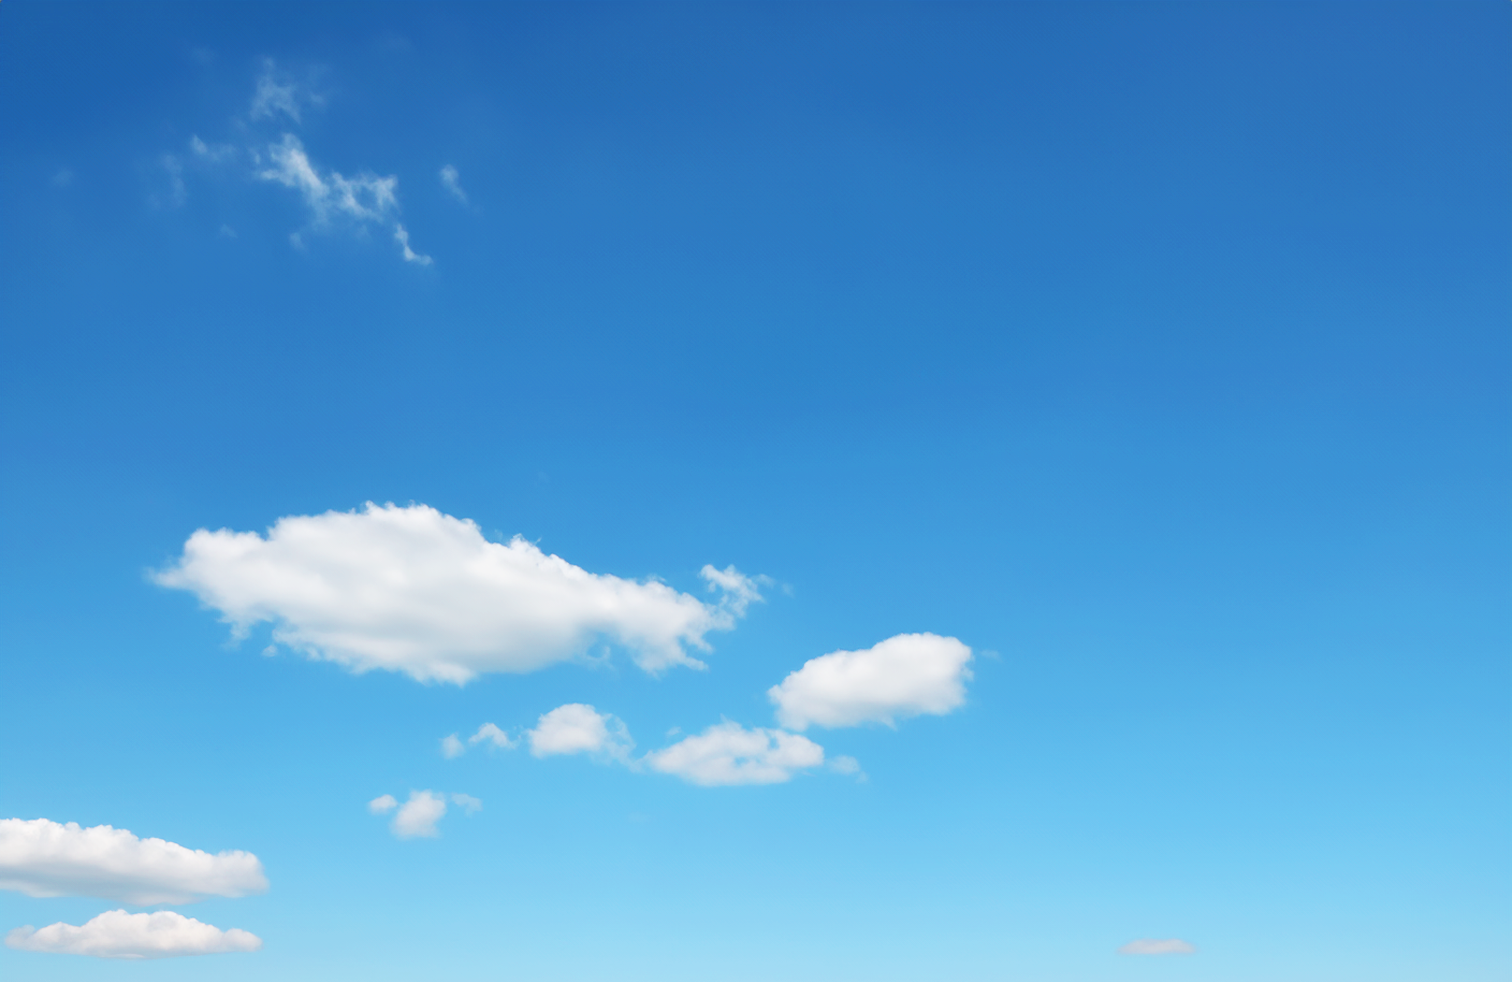
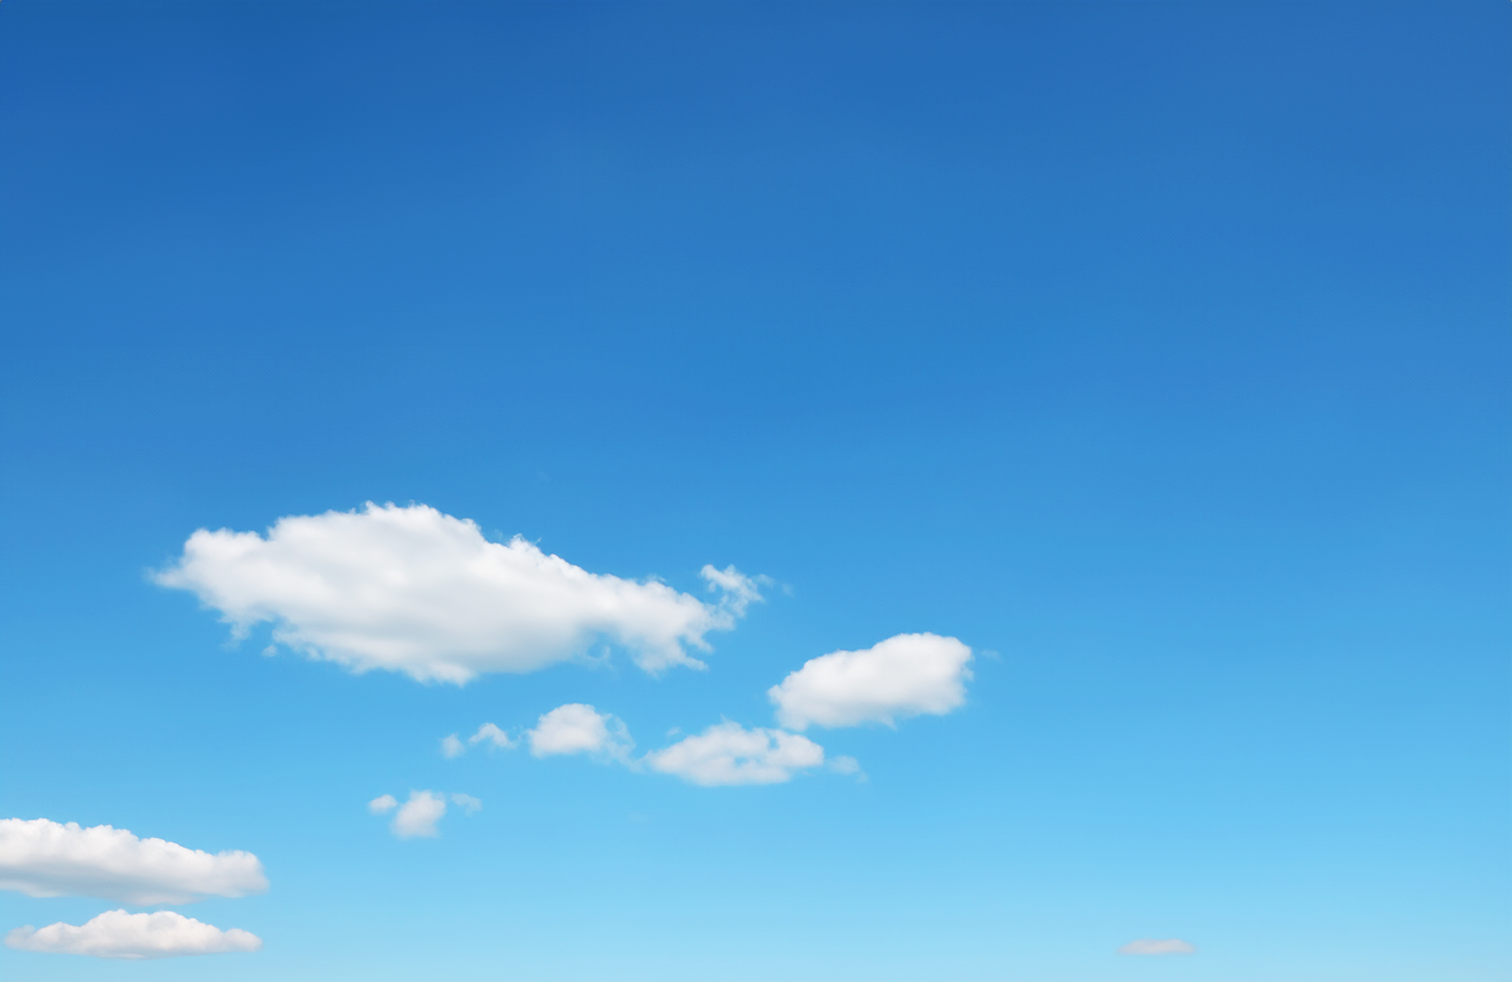
system mode BG images

Changed region(s): [[0.0933, 0.0611, 0.3108, 0.2749]]

diff --git a/src/pages/landing-page/components/landing-header/LandingHeader.js b/src/pages/landing-page/components/landing-header/LandingHeader.js
@@ -19,6 +19,7 @@ import instagram_dark from '../../../../assets/icons/instagram-icon-dark.png'
 import moon_icon from '../../assets/moon-icon.svg';
 import sun_icon from '../../assets/sun-icon.svg';
 import tiktok_dark from '../../../../assets/icons/tiktok-icon-dark.png';
+import ElementWrapper from '../../../../components/element-wrapper/ElementWrapper.js';
 
 export default function LandingHeader({ navLabel, navLink }) {
     const dispatch = useDispatch();
@@ -32,7 +33,6 @@ export default function LandingHeader({ navLabel, navLink }) {
             dispatch(setSystemMode("light"));
         }
     }
-    
     const handleNav = (path) => {
         navigate(path)
     }
@@ -41,23 +41,33 @@ export default function LandingHeader({ navLabel, navLink }) {
         <LandingHeaderContainer>
             <LogoContainer $mode={systemMode}>
                 <div onClick={() => navigate("/")}>
-                    <h1><em>presence</em></h1>
+                    <ElementWrapper>
+                        <h1><em>presence</em></h1>
+                    </ElementWrapper>
                 </div>
             </LogoContainer>
             <NavContainer $mode={systemMode}>
-                <h3 onClick={() => handleNav(navLink)}>{navLabel}</h3>
-                <a href="https://www.tiktok.com/@presence.exp" target="_blank" rel="noopener noreferrer">
-                    <img style={{ filter: systemMode === "light" ? 'invert(100%)' : 'invert(100%)' }} src={tiktok_dark} alt='TikTok' />
-                </a>
-                <a href="https://www.instagram.com/presence.exp/" target="_blank" rel="noopener noreferrer">
-                    <img style={{ filter: systemMode === "light" ? 'invert(100%)' : 'invert(100%)' }} src={instagram_dark} alt='Instagram' />
-                </a>  
+                <ElementWrapper delay={0.3}>
+                    <h3 onClick={() => handleNav(navLink)}>{navLabel}</h3>
+                </ElementWrapper>
+                <ElementWrapper delay={0.4}>
+                    <a href="https://www.tiktok.com/@presence.exp" target="_blank" rel="noopener noreferrer">
+                        <img style={{ filter: systemMode === "light" ? 'invert(100%)' : 'invert(100%)' }} src={tiktok_dark} alt='TikTok' />
+                    </a>
+                </ElementWrapper>
+                <ElementWrapper delay={0.5}>
+                    <a href="https://www.instagram.com/presence.exp/" target="_blank" rel="noopener noreferrer">
+                        <img style={{ filter: systemMode === "light" ? 'invert(100%)' : 'invert(100%)' }} src={instagram_dark} alt='Instagram' />
+                    </a>  
+                </ElementWrapper>
+                <ElementWrapper delay={0.6}>
                 <SystemModeContainer $mode={systemMode} onClick={() => handleSystemChange()}>
                     <MoonIcon $mode={systemMode} src={moon_icon} alt="Dark Mode" />
                     <span />
                     <SunIcon $mode={systemMode} src={sun_icon} alt="Light Mode" />
                     <BackgroundDiv $mode={systemMode} />
                 </SystemModeContainer>
+                </ElementWrapper>
             </NavContainer>
         </LandingHeaderContainer>
     )

diff --git a/src/pages/landing-page/LandingPage.js b/src/pages/landing-page/LandingPage.js
@@ -11,7 +11,9 @@ import {
 
 // components
 import AppPanel from './components/app-panel/AppPanel.js';
+import ElementWrapper from '../../components/element-wrapper/ElementWrapper.js';
 import LandingHeader from './components/landing-header/LandingHeader.js';
+import ModeBG from './components/mode-bg/ModeBG.js';
 
 export default function LandingPage() {
     const navigate = useNavigate();
@@ -22,19 +24,24 @@ export default function LandingPage() {
         <LandingHeader navLabel={'about'} navLink={'/about'}/>
         <AppsContainer>
             <div onClick={() => navigate("/281-474-976-710-656")}>
-            <AppPanel title={"281,474,976,710,656"} releaseDate={"JUN ‘24"}>
-                <App1LogoContainer $isActive={true} >
-                    <div className='gradientBG' />
-                    <div className="texts-container">         
-                        <h1 id="top"><em>presence</em></h1>
-                        <h1 id="mid"><em>presence</em></h1>
-                        <h1 id="bot"><em>presence</em></h1>
-                    </div>
-                </App1LogoContainer>
-            </AppPanel>
+                <ElementWrapper>
+                    <AppPanel title={"281,474,976,710,656"} releaseDate={"JUN ‘24"}>
+                        <App1LogoContainer $isActive={true} >
+                            <div className='gradientBG' />
+                            <div className="texts-container">         
+                                <h1 id="top"><em>presence</em></h1>
+                                <h1 id="mid"><em>presence</em></h1>
+                                <h1 id="bot"><em>presence</em></h1>
+                            </div>
+                        </App1LogoContainer>
+                    </AppPanel>
+                </ElementWrapper>
             </div>
-            <AppPanel title={"COMING SOON..."} $singleLine={true} />
+            <ElementWrapper delay={0.3}>
+                <AppPanel title={"COMING SOON..."} $singleLine={true} />
+            </ElementWrapper>
         </AppsContainer>
+        <ModeBG />
     </LandingPageContainer>
   )
 }

diff --git a/src/pages/landing-page/components/mode-bg/ModeBG.js b/src/pages/landing-page/components/mode-bg/ModeBG.js
@@ -1,0 +1,49 @@
+import React from "react";
+import { useSelector } from "react-redux";
+import { selectSystemMode } from "../../../../store/system/system.selector.js";
+import { motion, AnimatePresence } from 'framer-motion'; 
+
+// styles
+import {
+    ModeBGContainer,
+    DynamicBGDiv
+} from "./ModeBG.styles.js";
+
+export default function ModeBG() {
+    const systemMode = useSelector(selectSystemMode);
+
+    return (
+        <AnimatePresence>
+            {systemMode && (
+                <ModeBGContainer $mode={systemMode}>
+                    <AnimatePresence>
+                        {systemMode === 'light' && (
+                            <motion.div
+                                key="light"
+                                style={{ position: 'absolute', top: 0, left: 0, width: '100%', height: '100%' }}
+                                initial={{ opacity: 0 }}
+                                animate={{ opacity: 1, when: 'beforeChildren' }}
+                                exit={{ opacity: 0, when: 'beforeChildren' }}
+                                transition={{ duration: 1.0 }}
+                            >
+                                <DynamicBGDiv $mode={systemMode}/>
+                            </motion.div>
+                        )}
+                        {systemMode === 'dark' && (
+                            <motion.div
+                                key="dark"
+                                style={{ position: 'absolute', top: 0, left: 0, width: '100%', height: '100%' }}
+                                initial={{ opacity: 0 }}
+                                animate={{ opacity: 1, when: 'beforeChildren' }}
+                                exit={{ opacity: 0, when: 'beforeChildren' }}
+                                transition={{ duration: 1.0 }}
+                            >
+                                <DynamicBGDiv $mode={systemMode}/>
+                            </motion.div>
+                        )}
+                    </AnimatePresence>
+                </ModeBGContainer>
+            )}
+        </AnimatePresence>
+    );
+}

diff --git a/src/pages/landing-page/About.js b/src/pages/landing-page/About.js
@@ -9,6 +9,7 @@ import {
 } from './About.styles.js';
 
 // components
+import ElementWrapper from '../../components/element-wrapper/ElementWrapper.js';
 import LandingHeader from './components/landing-header/LandingHeader'
 
 export default function About() {
@@ -17,15 +18,21 @@ export default function About() {
     return (
         <AboutContainer $mode={systemMode}>
             <LandingHeader navLabel={'home'} navLink={'/'}/>
-            <AboutDescription>
-                <AboutText $mode={systemMode}>
-                    <em>presence</em> is a sandbox for the design of experiences. works are created at the intersections of 
-                    art, utility, lifestyle, and zeitgeist. 
-                </AboutText>
-                <AboutText $mode={systemMode}>
-                    new experiences are released periodically, follow @presence.exp for more.
-                </AboutText>
-            </AboutDescription>
+                <AboutDescription>
+                    <ElementWrapper>
+                    <AboutText $mode={systemMode}>
+                        <em>presence</em> is a sandbox for the design of experiences. works are created at the intersections of 
+                        art, utility, lifestyle, and zeitgeist. 
+                    </AboutText>
+                    </ElementWrapper>
+                    <ElementWrapper delay={0.3}>
+                        <AboutText $mode={systemMode}>
+                            new experiences are released periodically, follow <a href="https://www.instagram.com/presence.exp/" target="_blank" rel="noopener noreferrer"><em>@presence.exp</em></a> for more.
+                        </AboutText>
+                    </ElementWrapper>
+
+                </AboutDescription>
+            
         </AboutContainer>
     )
 }

diff --git a/src/pages/landing-page/LandingPage.styles.js b/src/pages/landing-page/LandingPage.styles.js
@@ -1,8 +1,7 @@
 import styled from "styled-components";
 import cursorLight from '../../assets/icons/cursors/cursor-light.png';
-
-import night from './assets/night2.png';
-import day from './assets/day2.png';
+// import night from './assets/night.png';
+// import day from './assets/day.png';
 
 // APP LOGOS
 export const App1LogoContainer = styled.div`
@@ -82,8 +81,7 @@ export const App1LogoContainer = styled.div`
     }
 `
 export const LandingPageContainer = styled.div`
-    /* background: ${props => props.$mode === "light" ? '#FFFFFF' : '#1E1E1E'}; */
-    background-image: ${props => props.$mode === "light" ? `url(${day})` : `url(${night})`};
+
     cursor: url(${props => props.$mode === "light" ? cursorLight : cursorLight}) 15 15, auto;
     height: 100vh;
     position: relative;
@@ -95,5 +93,4 @@ export const AppsContainer = styled.div`
     height: fit-content;
     padding: 0px 50px;
 `
-
 

diff --git a/src/pages/landing-page/About.styles.js b/src/pages/landing-page/About.styles.js
@@ -1,8 +1,9 @@
 import styled from "styled-components";
 import cursorLight from '../../assets/icons/cursors/cursor-light.png';
+import cursorLightFilled from '../../assets/icons/cursors/cursor-filled-light.png';
 
-import night from './assets/night2.png';
-import day from './assets/day2.png';
+import night from './assets/night.png';
+import day from './assets/day.png';
 
 export const AboutContainer = styled.div`
     /* background: ${props => props.$mode === "light" ? '#FFFFFF' : '#1E1E1E'}; */
@@ -20,7 +21,13 @@ export const AboutDescription = styled.div`
 `
 export const AboutText = styled.h3`
     color: ${props => props.$mode === "light" ? '#FFFFFF' : '#FFFFFF'};
+    
     font-weight: 300;
     font-size: 16px;
     max-width: 300px;
+
+    a {
+        color: #FFFFFF;
+        cursor: url(${props => props.$mode === "light" ? cursorLightFilled : cursorLightFilled}) 15 15, auto;
+    }
 `

diff --git a/src/pages/landing-page/components/app-panel/AppPanel.styles.js b/src/pages/landing-page/components/app-panel/AppPanel.styles.js
@@ -4,8 +4,8 @@ import cursorLightFilled from '../../../../assets/icons/cursors/cursor-filled-li
 
 export const AppPanelContainer = styled.div`
     align-items: center;
-    background: ${props => props.$singleLine ? (props.$mode === "light" ? "rgba(251,251,251,0.4)" : "rgba(51,51,51,0.4)") : ""};
-    border: ${props => props.$singleLine ? (props.$mode === "light" ?  "4px solid #E4E4E4" : "4px solid #575757") : ""};
+    background: ${props => props.$singleLine ? (props.$mode === "light" ? "rgba(251,251,251,0.2)" : "rgba(51,51,51,0.5)") : ""};
+    border: ${props => props.$singleLine ? (props.$mode === "light" ?  "4px solid rgba(228,228,228,0.4)" : "4px solid rgba(87,87,87,0.4)") : ""};
     border-radius: 16px;
     box-sizing: border-box;
     cursor: ${props => {

diff --git a/src/pages/landing-page/components/mode-bg/ModeBG.styles.js b/src/pages/landing-page/components/mode-bg/ModeBG.styles.js
@@ -1,0 +1,21 @@
+import styled from "styled-components";
+import night from '../../assets/night.png';
+import day from '../../assets/day.png';
+
+export const ModeBGContainer = styled.div`
+    background-image: ${props => props.$mode === "light" ? `url(${day})` : `url(${night})`};
+    opacity: ${(props) => props.$shirtDisplay ? '0.67' : '1.0'};
+    top: 0;
+    height: 100vh;
+    position: fixed;
+    width: 100vw;
+    z-index: -500;
+`
+export const DynamicBGDiv = styled.div`
+    background-image: ${props => props.$mode === "light" ? `url(${day})` : `url(${night})`};
+    width: 100%;
+    height: 100%;
+    left: 0;
+    opacity: ${(props) => props.$shirtDisplay ? '0.67' : '1.0'};
+    top: 0;
+`;

diff --git a/src/pages/landing-page/components/app-panel/AppPanel.js b/src/pages/landing-page/components/app-panel/AppPanel.js
@@ -27,7 +27,7 @@ export default function AppPanel({ children, title, releaseDate, $singleLine=fal
           </InfoContainer>
         </>
         :
-        <h3 style={{ color: systemMode === "light" ? "#1E1E1E" : "#FFFFFF" }}>{title}</h3>
+        <h3>{title}</h3>
       }
     </AppPanelContainer>
   )

diff --git a/src/pages/landing-page/components/landing-header/LandingHeader.styles.js b/src/pages/landing-page/components/landing-header/LandingHeader.styles.js
@@ -8,6 +8,7 @@ export const LandingHeaderContainer = styled.div`
     height: 144px;
     justify-content: space-between;
     padding: 0px 50px;
+    z-index: 100;
 `
 export const LogoContainer = styled.div`
     height: 56px;
